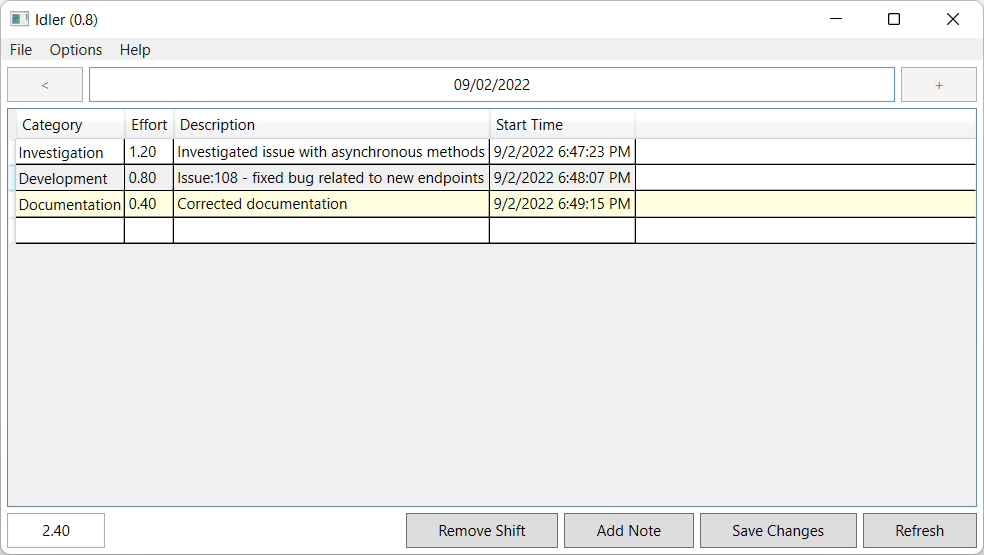
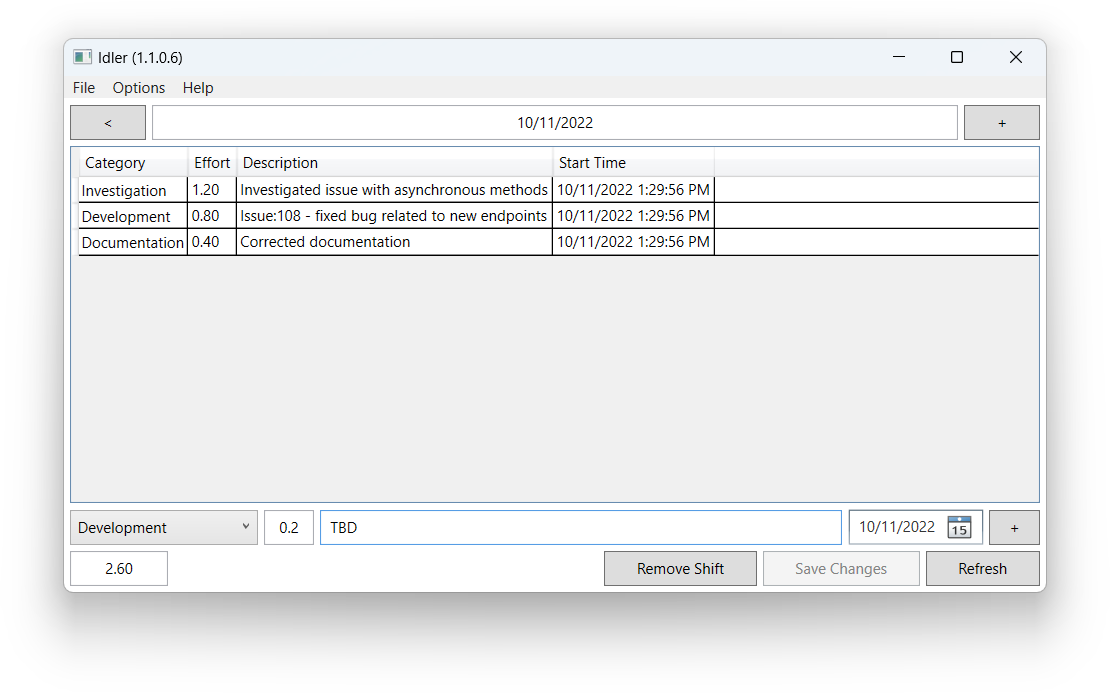
corrected documentation

diff --git a/README.md b/README.md
@@ -30,11 +30,9 @@ Note represents a single activity. It contains follow properties:
 - Description
 - Start Time
 
-You can add new note either directly in shift table or by window `New Sift` which appears when you press button `Add Note`. Main advantages of the window are spellchecking and multiline support in description field.
+You can add new note by controls located at the bottom of the main window. Once you finish to fill all fields just hist `Enter` or press on button `+` and the note will be added to a shift.
 
-![image](images/add-note-window.png)
-
-Once you added notes you want, don't forget to press button `Save Changes` to save all notes to DataBase file. Button `Refresh` just reload all notes from DataBase.
+When you added notes you want, don't forget to press button `Save Changes` to save all notes to DataBase file. All unsaved notes are marked yellow. To refresh list notes for current shift you can press button `Refresh`.
 
 > Note, that button `Refresh` removes all unsaved changes!
 
